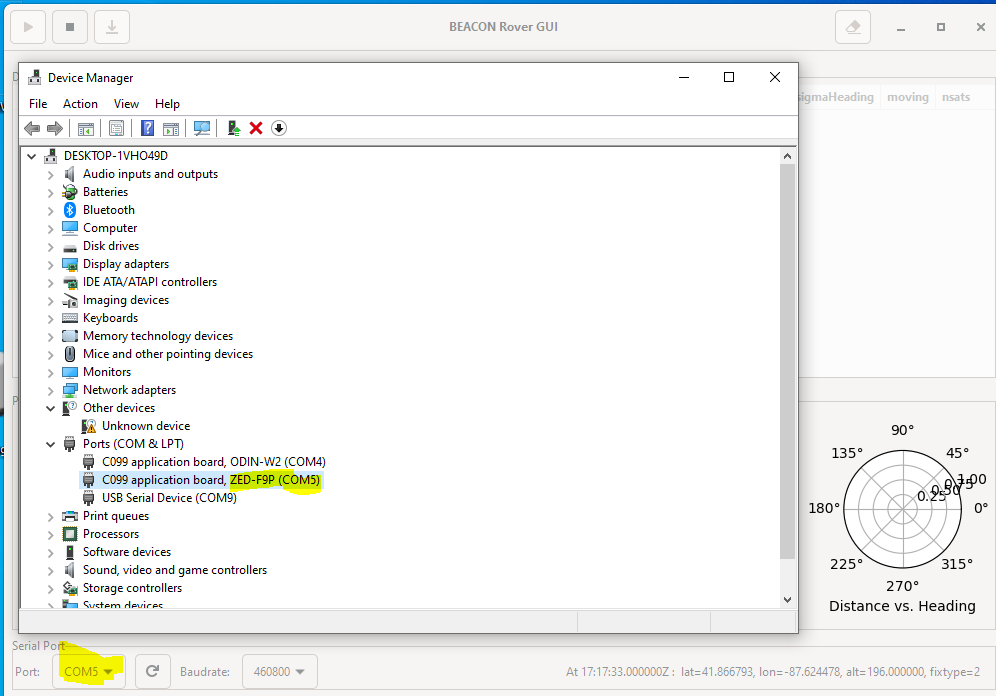
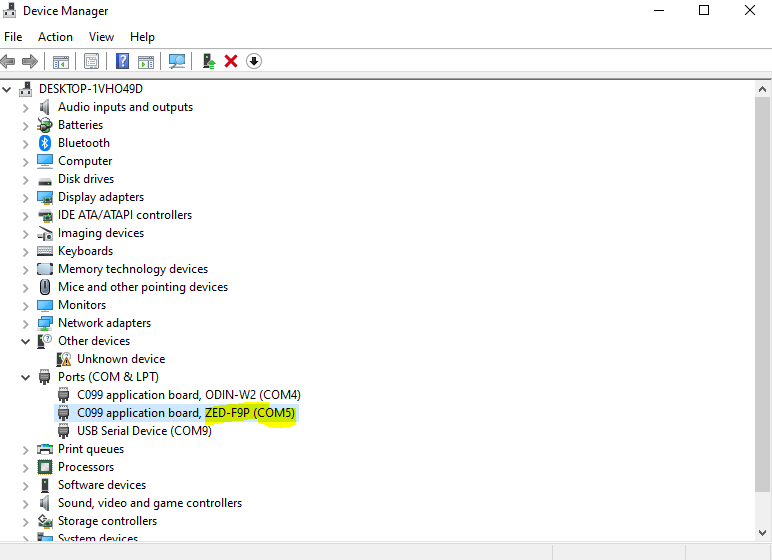
first version of user guide

Changed region(s): [[0.0, 0.0, 1.0, 1.0], [0.9948, 0.9714, 1.0, 1.0]]

diff --git a/doc/beacon-user-guide/beacon-user-guide.tex b/doc/beacon-user-guide/beacon-user-guide.tex
@@ -1,0 +1,289 @@
+\documentclass[usletter]{article} 
+\usepackage[margin=1in]{geometry} 
+\usepackage{graphicx} 
+\usepackage{hyperref} 
+\usepackage{fancyhdr} 
+
+\pagestyle{fancy} 
+\fancyhf{} 
+\rhead{BEACON Surveyer User Guide v0.1} 
+\lhead{Pg. \thepage} 
+
+
+\title{BEACON Surveyer User Guide} 
+\author{Cosmin Deaconu
+\\ \href{mailto:cozzyd@kicp.uchicago.edu}{cozzyd@kicp.uchicago.edu} 
+}
+
+
+\begin{document} 
+
+\maketitle
+
+\tableofcontents
+
+\section{Introduction} 
+
+This document describes the theory and operation of the BEACON antenna surveying system.
+This system is a low-cost alternative to a commercial real-time kinematic (RTK)
+surveying system.  
+
+The purpose of the system is to precisely measure the three-dimensional
+positions  of a set of points relative to a common origin. In particular, for
+BEACON, we need to know the relative position sof the antenna in
+three-dimensions to a few centimeters in order to make measurements.  The
+system uses two Global Navigation Satellite Service (GNSS, although GPS is used mostly interchangeably in this document) units that can talk to each other wirelesslyand a laptop
+for logging the data. 
+
+For any questions, please contact Cosmin via e-mail, or, if urgent, by mobile phone (775.846.9105).
+
+
+\section{How it works} 
+
+
+\subsection{Theory of Operation} 
+
+\textit{You can skip this section if you don't care :), but do read the next subsection!} 
+
+GNSS systems work by measuring relative time delays of radio signals from
+various satellite constellations. The most well-known is the Global Positioning
+System (GPS) commissioned by the United States, but nowadays there are several
+other constellations (the Russioan GLONASS, European Galileo, and Chinese
+Beidou) that can be used in concert. Still, in this document GPS and GNSS will 
+
+Normally, at least with the unrestricted civilian bands, one can obtain
+position accuracy of around 1 meter with a GNSS receiver. The precision is limited
+due to fluctuations in the radio transmission properties of the part of the
+Earth's atmosphere (the ionosphere), that cannot be perfectly corrected for. 
+
+
+However, if you have two receivers that are relatively close together, they
+experience almost exactly the same fluctuations for every satellite. This means
+that if you only care about the relative position of the two units, you can
+essentially subtract out the atmospheric fluctuations, giving allowing
+measurement of relative positions to an accuracy of a few cm under good
+conditions. A system set up to do this is genrally called a Real-Time Kinematic
+(RTK) system. 
+
+Moreover, there are multiple frequencies available with GNSS satellites, and
+if you have a receiver that can receive multiple frequencies (a ``dual-band"
+receiver), for technical reasons, it is possible to use the additional
+information to find a solution to the distance between the receivers more
+quickly.
+
+\subsection{ Overview of the BEACON survey system} 
+
+The BEACON survey system consists of two dual-band GPS receiver development
+boards (u-blox C099-F9P boards, if you care), which have been  configured to talk to each other via WiFi.
+
+The two boards are configured differently, and appropriately labeled. One is
+the \textbf{Base}.  The Base is configured a WiFi router, and can transmit the information
+necessary to make corrections to any clients over WiFi. Normally the base is stationary with ``known" coordinates so that the rover's absolute position may be determined, but since we only care about the relative coordinates, the Base is configured as a ``moving base"  so it does not matter if the base is stationary or the Rover is. 
+
+The other board is the \textbf{Rover}, which is configured to connect to the
+Base automatically over WiFi so that it can receive the atmospheric corrections
+necessary. Once it starts receiving enough connections, it can calculate its 3D
+coordinates relative to the Base. By connecting a laptop to the Rover via USB,
+we can read out this 3D relative position. To facilitate that, a custom
+graphical user interface has been developed. 
+
+Note that when we talk about the relative difference between the two boards, we
+really mean the relative distance between the GPS antennas. It is the location
+of the antenna that is actually being measured, not the board itself! 
+
+
+
+\section{System Contents and Assembly}  
+
+This section describes the components of the BEACON survey system and how to put them together. A specific order of operation will be given in the Operation section. 
+
+\subsection{Contents} 
+
+You should have received two boxes (with u-blox packaging) as well as a laptop  (a relatively old IBM Thinkpad) and a power adapter. 
+
+Inside each of the boxes, you should have: 
+
+\begin{itemize} 
+\item A GPS receiver, in a 3-D printed enclosure, labeled ROVER or BASE (this will probably be in an anti-static bag) 
+\item A microusb cable
+\item A USB-to-DC power cable 
+\item A GPS Antenna (with a longish RG174 cable with SMA connector) 
+\item A metal disc (this is the GPS antenna backplane) 
+\item A WiFi antenna 
+\end{itemize} 
+
+
+\subsection{The receiver units} 
+
+The base and rover receivers both come in a custom 3-D printed enclosure and
+are labeled accordingly. They are not interchangeable as the firmware is
+configured differently, although all other components are interchangeable.  
+
+\begin{center} 
+\includegraphics[width=4in]{receiver-front} 
+\end{center} 
+
+Each unit has two RF connectors (SMA-type). One is for the WiFi antenna, the
+other is for the GNSS (labeled GPS on the uunit) antenna. \textbf{The GPS Antenna is active so it should be
+plugged in while the sytem is off. Turning the system on without the GPS
+antenna plugged in could result in a shock and/or damage to the system.}. 
+
+There are three buttons on the front of the receiver. The only one you are
+likely to use is the Reset (RST) button, which resets the unit.
+\textbf{Holding the button labelled SW0 for 3 seconds will clear the firmware
+of the receivers. Don't do that since we don't yet have an automatic way of
+configuring the receivers and doing it right now  is an error-prone manual
+process!!!} 
+
+\begin{center} 
+\includegraphics[width=4in]{receiver-back} 
+\end{center} 
+
+On the back is a microusb port and a DC power port. The boards can be powered
+over microusb if they are plugged into a computer (a microusb cable is
+provided) , but, at least for me, using e.g. a USB battery bank, the microusb
+connector didn't work for power and I had to power it through the DC port via
+the USB-to-DC cable. \textbf{You probably don't want to plug in both the DC
+cable and the micro-usb cable}. 
+
+Each unit has two holes at the top so you can see the LED's on the board. There are three LED's that are interesting. 
+\begin{enumerate} 
+  \item Near the GPS connector, there is the LED for the radio unit. This will be green when the unit is on and purple when the Base and Rover are properly connected to each other via WiFi. The purple LED will flash when the Base is sending data to the Rover (this flashing is intermittent and may not be perceptible). 
+  \item Near the microusb port, there is a blue LED for the GPS. If solid, it means that the GPS has turned on. If outside with a good view to the sky, it should soon flashing once a second,  which means the GPS has got a lock (i.e. it knows where it is). It should start flashing. 
+  \item Next to the GPS LED is a yellow/green LED for the RTK status. If flashing, it's starting to do an RTK calcualtion. If solid it means that we have an RTK solution (this is the dream!)
+\end{enumerate}
+
+There is one more LED that is visible but it won't turn on (it's used as a Geofencing indicator). 
+
+\subsection{The GNSS Antenna} 
+
+The GPS antenna is meant to be used with a metal backplane. That is why it comes with a metal disc, which will magnetically attach to the bottom of the antenna. The antenna is meant to be horizontal, with the disc (or another metal backplane) below in the orientation shown here: 
+
+\begin{center} 
+\includegraphics[width=4in]{gps-antenna} 
+\end{center}
+
+\subsection{The Laptop} 
+
+A now-ancient small-but-bricky laptop is provided. This laptop is slow and clunky and has a hard drive (not a solid-state drive!) that hopefully won't fail at altitude. It has several accounts on it, with several sticky notes with credentials. \textbf{Use the survey account, with the password on the sticky note, as that has the software for reading out the Rover available}. The battery works fairly well and should last at least several hours. 
+
+Eventually, the Rover will be plugged into the laptop via USB. On the top left of the desktop is a shortcut to launch the Rover data logger program. Usage of this program is described in the Operation section. 
+
+\section{Operation} 
+
+This section describes the recommended method to perform the measurement. Please read this at least once before actually doing it! 
+
+\subsection{Set up the base receiver} 
+
+If you haven't already, plug in the GPS antenna and WiFi antenna into the Base
+unit. Even though this is called the base, since it does not need to be
+connected to a laptop for readout, it is probably easier to move the ``base" around and
+keep the ``rover" stationary!  Either is fine, but I'm guessing it will be easier not to have tomovemvoe the laptop. 
+
+Either way, the base should be turned on first because
+the Rover must connect to the Base (of course, after powering on, you can
+always reset the two in sequence if they get confused or you powered them on in
+the wrong order). 
+
+I recommend using a USB battery bank with the USB to DC connector to power the
+base. Any decent battery bank should power the unit for many hours. I do not
+recommend plugging it via microusb into the same laptop as the Rover because then it will
+make it more difficult to figure out which receiver you talking to with the
+laptop. 
+
+The blue LED should start blinking once a second relatively soon after turning it on outside. 
+
+
+\subsection{Set up the rover receiver} 
+
+If you haven't aready, plug in the GPS antenna and WiFi antenna into the rover
+unit. Unlike the base, the Rover must be plugged into the laptop via microusb
+(which will also power it on). The rover is more likely to properly connect to
+the base if it's turned on afterwards (because that's when it will definitely
+be trying to make a WiFi connection). If you turned on the rover before the
+base, just reset the rover. 
+
+Either the rover or base must remain stationary throughout the measurements, but as mentioned above, because the
+rover has to be connected to the laptop, it's easier if the rover is
+stationary.  This means \textbf{don't move the Rover antenna once you've started doing measurements!} 
+
+Once the Rover connects to the Base, the purple radio LED will turn on for
+both. The Rover's blue LED should start blinking soon after it's turned on and
+the yellow/green LED should hopefully start blinking and then turning solid
+soon thereafter. If the yelow/green LED doesn't turn on, that means we're not
+getting an RTK solution and we need to figure out why. 
+
+\subsection{Reading out data from the rover} 
+
+Start the GUI program (upper left corner of the desktop). A command window will pop up and a few seconds a gui will pop up. An annotated version is below:
+
+\begin{center} 
+\includegraphics[width=4in]{gui} 
+\end{center} 
+
+On the top are the controls to start taking data, stop taking data, save the data, or clear all the data. Enter toggles betwen starting/stopping data and ctrl-S and ctrl-L are shortcuts for saving data and clearing data, respectively. 
+On the bottom is  the configuration for the serial port and the status bar. Unfortunately, the GPS receiver actually presents 3 different serial ports to the laptop, and only two of the three can be used to communicate with it. Because the names are not consistent, sometimes we get it wrong. If you start taking data but the status bar says something about no data being received, either the blue light isn't flashing on the Rover (unlikely if you've waited more than a few seconds and are outside) or the wrong serial port is selected. Stop taking data and try a different one. 
+A fool-proof method to get the serial port right is presented in the troubleshooting section.
+
+In the middle is a table of collected relative position data and some diagnostic plots. When there is an RTK solution and we are taking data, a new row should appear about once a second. If we have a good solution, then the values for delta N (/orth), delta E (East) and delta D (Down?) should cluster and sigma N/E/D should be relatively small (those are all plotted). If it's jumping around a lot, we probably don't have a good solution yet. 
+
+Once it's clear that we're getting data from the rover stop data taking and clear. 
+
+Next you'll want to move the base antenna to each of the BEACON antennas (how
+you'll get it up there, I'm not sure? A long stick?) For each location of the
+base antenna, take some data (probably a minute or so is fine if we're getting
+reasonable measurements) and save it (preferably with a name that tells us
+which antenna it is!). Then clear and move on to the next BEACON antenna. 
+
+Alternatively, you can start taking data prior to moving the base antenna next
+to a BEACON antenna as long as you put the base antenna next to the BEACON
+antenna for long enough so that it's obvious once we look through the measurements... 
+
+It's probably a good idea to take a few practice measurements first to get a feel for the process. 
+
+\section{Troubleshooting} 
+
+\subsection{The right LED's are not turning on!} 
+
+Restarting the devices (first base, then rover) is probably the first line in any troubleshooting. Sometimes they can get out of sync with each other or get into bad states. 
+
+Otherwise, make sure that they are in WiFi range (not too far apart, not too many obstructions) and that the antennas are properly connected. 
+
+\subsection{I'm not seeing any data!}
+
+Stop data taking, and cycle through the serial ports.  Make sure the yellow LED is on, as there  won't be  data to record otherwise. If the status bar is showing an updating GPS position, that means we are talking to the unit fine but we don't have any RTK measurements yet. 
+It's possible to figure out what the right port is (for each time it's plugged in) using the Decvice Manager. There is a link to the Device Manager under laptops. Take a look at the Ports section and see which port is labeled ZED-F9P, as below. That will be the right serial port! 
+\begin{center}
+\includegraphics[width=3in]{device_manager}. 
+\end{center}
+
+\subsection{The GUI is slow} 
+
+Yes, that's because the laptop is slow and doesn't have enough memory. Sorry. I think I fixed all the crashes, but who knows! 
+
+
+\section{Technical Data} 
+
+\begin{itemize} 
+
+\item GPS Receivers/Antennas/USB cables are from the ublox C099-F9P development board, which integrates the ZED-F9P dual-band GNSS receiver with an ODIN-W2 radio unit. More details about the board are available at \url{https://www.u-blox.com/en/product/c099-f9p-application-board}. 
+\begin{itemize} 
+\item The ``mbed" firmware is used for the ODIN-W2 radio unit, with the base configured as a WiFi AP and the rover as a WiFi station on the same network .
+
+\end{itemize} 
+\item Documentation/software/enclosure design are available at \url{https://github.com/cozzyd/c099-surveyer} 
+\begin{itemize} 
+\item STL files for the two parts of the 3-D printable enclosure are provided, as well as a FreeCAD project. 
+\item Source code for the data logger is under \texttt{scripts/rover-gui}. 
+\item Documentatio is available under the doc directory 
+\end{itemize} 
+\end{itemize} 
+
+
+
+
+\end{document} 
+
+
+
+
